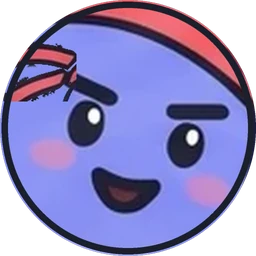
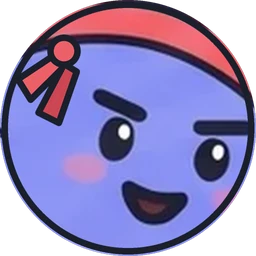
Alfa 16: selfies do Lidinho refeitas (Neófito, Iniciado, Diligente, Perseverante, Mestre, Lifehacker, Ancestral)
- Recortes e ângulos novos (o Perseverante gira um pouco); o rosto não fica mais coberto.
- Detalhes desenhados no traço do Lidinho onde o recorte não funcionava: gola da capa
  com broche (Mestre), telas flutuantes (Lifehacker), nó e pontas da faixa (Diligente),
  nó e ponta do cachecol com franja (Perseverante).
- Coroa do Ancestral acima dos olhos; broto do Neófito alinhado; caderno do Iniciado
  no próprio desenho.

Claude-Session: https://claude.ai/code/session_01FHkf44D7GTThMWAkWrEsoQ

diff --git a/scripts/lidinho-selfie.py b/scripts/lidinho-selfie.py
@@ -18,17 +18,17 @@ INK = (27, 31, 43, 255)
 # extras: (caixa x0,y0,x1,y1 a 640 px, modo, alvo (u, v, largura) em frações do círculo, giro, espelhar)
 #   u, v = canto de cima à esquerda; modos: 'all' (tudo), 'color' (cores fora do roxo), 'dark' (tinta grossa + cores)
 CFG = {
-    'neofito': ((338, 372, 162), [((222, 30, 432, 172), 'all', (0.24, -0.06, 0.52), 0, False)]),
-    'iniciado': ((372, 348, 124), [((470, 330, 640, 565), 'color', (0.66, 0.52, 0.42), -8, False)]),
-    'diligente': ((402, 318, 128), [((105, 168, 225, 268), 'color', (0.0, 0.16, 0.3), 0, False)]),
-    'perseverante': ((212, 345, 125), []),
+    'neofito': ((330, 366, 140), [((222, 30, 432, 172), 'all', (0.31, -0.02, 0.4), -6, False)]),
+    'iniciado': ((402, 362, 132), []),
+    'diligente': ((372, 302, 134), [('draw', 'tails')]),
+    'perseverante': ((240, 334, 130, -7), [('draw', 'scarf')]),
     'erudito': ((322, 268, 165), []),
     'obstinado': ((265, 360, 135), []),
     'calejado': ((290, 335, 138), [((156, 32, 522, 192), 'dark', (0.06, -0.1, 0.88), 0, False)]),
     'virtuoso': ((330, 345, 128), [((176, 84, 486, 248), 'dark', (0.06, -0.08, 0.86), 0, False)]),
-    'mestre': ((372, 322, 138), [((18, 276, 205, 552), 'color', (-0.14, 0.5, 0.44), 12, False), ((18, 276, 205, 552), 'color', (0.7, 0.5, 0.44), -12, True)]),
-    'lifehacker': ((315, 352, 128), [((2, 118, 186, 285), 'all', (-0.02, 0.02, 0.36), -6, False), ((405, 72, 622, 285), 'all', (0.64, -0.02, 0.4), 6, False)]),
-    'ancestral': ((315, 385, 130), [((212, 100, 422, 252), 'color', (0.2, -0.04, 0.6), 0, False), ((498, 56, 614, 236), 'color', (0.76, 0.12, 0.24), 0, False)]),
+    'mestre': ((372, 322, 140), [('draw', 'cape')]),
+    'lifehacker': ((315, 322, 128), [('draw', 'screen')]),
+    'ancestral': ((318, 392, 128), [((212, 100, 422, 252), 'color', (0.22, -0.17, 0.56), -6, False), ((498, 56, 614, 236), 'color', (0.78, 0.2, 0.22), 0, False)]),
     'soberano': ((322, 272, 120), [((190, 20, 446, 128), 'all', (0.1, -0.03, 0.8), 0, False)]),
 }
 
@@ -73,6 +73,64 @@ def piece(big, box, mode):
     return img.crop(bb) if bb else img
 
 
+def draw_extra(canvas, kind):
+    """Detalhes desenhados aqui mesmo, no traço do Lidinho (tinta escura, cores chapadas)."""
+    k = 4  # desenha grande e reduz (bordas suaves)
+    layer = Image.new('RGBA', (S * k, S * k), (0, 0, 0, 0))
+    d = ImageDraw.Draw(layer)
+    W = 13 * k
+    P = lambda pts: [(x * S * k, y * S * k) for x, y in pts]
+    if kind == 'cape':
+        # gola da capa: duas abas vermelhas que sobem dos ombros e se fecham num broche dourado
+        red, red_lo = (238, 98, 106, 255), (196, 66, 80, 255)
+        left = P([(-0.05, 0.66), (0.33, 0.76), (0.47, 1.05), (-0.05, 1.05)])
+        right = P([(1.05, 0.66), (0.67, 0.76), (0.53, 1.05), (1.05, 1.05)])
+        for poly, c in ((left, red), (right, red_lo)):
+            d.polygon(poly, fill=c)
+            d.line(poly + [poly[0]], fill=INK, width=W, joint='curve')
+        cx, cy, r = 0.5 * S * k, 0.84 * S * k, 0.08 * S * k
+        d.ellipse((cx - r, cy - r, cx + r, cy + r), fill=(245, 200, 76, 255), outline=INK, width=W)
+        d.ellipse((cx - r * 0.35, cy - r * 0.55, cx - r * 0.05, cy - r * 0.25), fill=(255, 240, 190, 255))
+    elif kind == 'screen':
+        # tela flutuante translúcida, inclinada, saindo pelo canto de cima
+        sc = Image.new('RGBA', (int(0.46 * S * k), int(0.32 * S * k)), (0, 0, 0, 0))
+        sd = ImageDraw.Draw(sc)
+        w, h = sc.size
+        sd.rounded_rectangle((W, W, w - W, h - W), radius=int(0.04 * S * k), fill=(196, 236, 248, 215), outline=INK, width=W)
+        for i, f in enumerate((0.34, 0.52, 0.7)):
+            x1 = w * (0.72 if i else 0.56)
+            sd.line((w * 0.18, h * f, x1, h * f), fill=(110, 170, 200, 255), width=int(W * 0.8))
+        sd.ellipse((w * 0.78, h * 0.26, w * 0.86, h * 0.38), fill=(240, 120, 130, 255))
+        sc = sc.rotate(-14, resample=Image.BICUBIC, expand=True)
+        layer.alpha_composite(sc, (int(0.54 * S * k), int(-0.06 * S * k)))
+        sc2 = sc.transpose(Image.FLIP_LEFT_RIGHT).resize((int(sc.width * 0.72), int(sc.height * 0.72)), Image.LANCZOS)
+        layer.alpha_composite(sc2, (int(0.02 * S * k), int(0.0 * S * k)))
+    elif kind == 'scarf':
+        # nó do cachecol e a ponta caindo na diagonal, com listras e franja
+        yel, yel_lo, stripe = (246, 200, 72, 255), (228, 172, 42, 255), (190, 134, 26, 255)
+        tail = P([(0.62, 0.76), (0.76, 0.72), (0.95, 0.9), (0.86, 0.99), (0.7, 0.86)])
+        d.polygon(tail, fill=yel_lo)
+        d.line(tail + [tail[0]], fill=INK, width=W, joint='curve')
+        for a_, b_ in (((0.72, 0.76), (0.66, 0.82)), ((0.81, 0.82), (0.74, 0.89))):
+            d.line(P([a_, b_]), fill=stripe, width=int(W * 1.3))
+        for f in (0.0, 0.33, 0.66):  # franja
+            x0, y0 = 0.95 - f * 0.09, 0.9 + f * 0.09
+            d.line(P([(x0, y0), (x0 + 0.04, y0 + 0.04)]), fill=INK, width=int(W * 0.8))
+        x0, y0, x1, y1 = (v * S * k for v in (0.57, 0.7, 0.75, 0.84))
+        d.ellipse((x0, y0, x1, y1), fill=yel, outline=INK, width=W)
+    elif kind == 'tails':
+        # nó da faixa do lado esquerdo da cabeça, com as duas pontas caindo
+        red, red_lo = (236, 96, 104, 255), (204, 70, 82, 255)
+        t1 = P([(0.22, 0.21), (0.07, 0.31), (0.12, 0.39), (0.25, 0.26)])
+        t2 = P([(0.25, 0.25), (0.15, 0.44), (0.23, 0.48), (0.3, 0.28)])
+        for poly, c in ((t1, red), (t2, red_lo)):
+            d.polygon(poly, fill=c)
+            d.line(poly + [poly[0]], fill=INK, width=W, joint='curve')
+        x, y, r = 0.25 * S * k, 0.2 * S * k, 0.065 * S * k
+        d.ellipse((x - r, y - r, x + r, y + r), fill=red, outline=INK, width=W)
+    canvas.alpha_composite(layer.resize((S, S), Image.LANCZOS))
+
+
 def body_disc(color_hi, color, color_lo):
     """Disco com o sombreado do corpo (para tapar o que não for corpo no recorte)."""
     d = Image.new('RGBA', (S, S), color + (255,))
@@ -83,7 +141,9 @@ def body_disc(color_hi, color, color_lo):
     return d
 
 
-for name, ((cx, cy, r), extras) in CFG.items():
+for name, (base, extras) in CFG.items():
+    cx, cy, r = base[:3]
+    tilt = base[3] if len(base) > 3 else 0  # "muda o ângulo": gira o Lidinho dentro do círculo
     big = Image.open(f'{SRC}/{name}.webp').convert('RGBA').resize((N, N), Image.LANCZOS)
     a = np.array(big)
     # brancos fechados do desenho viram transparentes (depois o disco cobre)
@@ -95,6 +155,8 @@ for name, ((cx, cy, r), extras) in CFG.items():
     big = Image.fromarray(a, 'RGBA')
     # cor do corpo: mediana dos pixels roxos do recorte
     box = (cx - r, cy - r, cx + r, cy + r)
+    if tilt:
+        big = big.rotate(tilt, resample=Image.BICUBIC, center=(cx, cy))
     crop = big.crop(box).resize((S, S), Image.LANCZOS)
     ca = np.array(crop)
     h, s, v = hsv(ca)
@@ -103,7 +165,11 @@ for name, ((cx, cy, r), extras) in CFG.items():
     lo = tuple(int(x * 0.86) for x in med)
     canvas = body_disc(None, med, lo)
     canvas.alpha_composite(crop)
-    for (bx, mode, (u, vv, w), rot, flip) in extras:
+    for ex in extras:
+        if ex[0] == 'draw':
+            draw_extra(canvas, ex[1])
+            continue
+        (bx, mode, (u, vv, w), rot, flip) = ex
         p = piece(big, bx, mode)
         if flip:
             p = p.transpose(Image.FLIP_LEFT_RIGHT)
